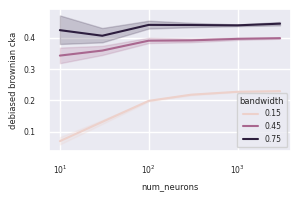
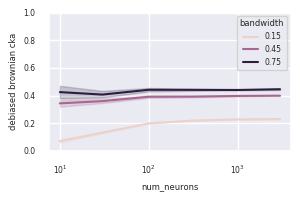
Plot formatting (ylim) consistency

diff --git a/run.py b/run.py
@@ -216,6 +216,19 @@ if __name__ == "__main__":
         plt.figure(figsize=(3, 2))
         sns.lineplot(data=results_df, x=x_axis, y=comp_name, hue=hue_by)
         plt.xscale("log")
+        if args.comparator in {"regression", "regression_rotation"}:
+            plt.yscale("log")
+            if (args.poisson_scale is not None) and (args.poisson_scale > 0.0):
+                # Poisson variance scales with the mean. We expect regression error to be limited
+                # by external noise. Scale y-axis with scale of noise.
+                plt.ylim(None, args.poisson_scale)
+            else:
+                # In noiseless case, all neural activity is in [0, 1]. Errors > 1 indicate some
+                # stability issues, perhaps.
+                plt.ylim(None, 1.0)
+        else:
+            plt.ylim(0.0, 1.0)
+
         plt.tight_layout()
         plt.savefig(
             f"plots/{args.mode}_{args.comparator}_vs_{x_axis}_"
